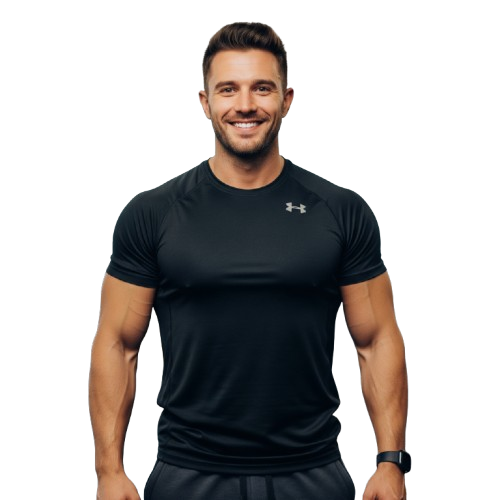
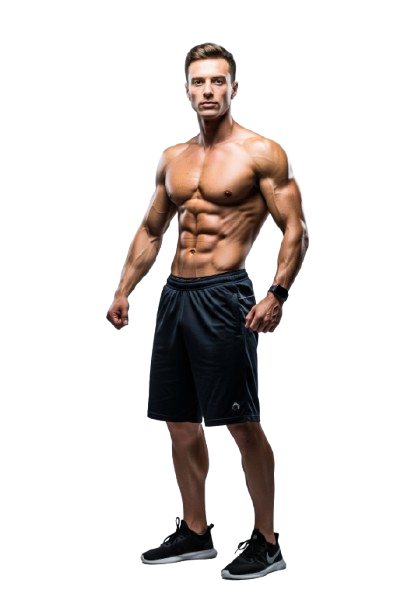
uptdates

diff --git a/index.html b/index.html
@@ -240,7 +240,7 @@
                         <div class="projeto-slide active animate-scale">
                             <div class="projeto-item animate-scale">
                                 <div class="projeto-img">
-                                    <img src="/placeholder.svg?height=300&width=500" alt="Flora Cerri" class="interactive">
+                                    <img src="./assets/print_floracerri.png" alt="Flora Cerri" class="interactive">
                                 </div>
                                 <div class="projeto-info">
                                     <span class="projeto-categoria">Site Institucional</span>
@@ -259,7 +259,7 @@
                         <div class="projeto-slide animate-scale">
                             <div class="projeto-item animate-scale">
                                 <div class="projeto-img">
-                                    <img src="/placeholder.svg?height=300&width=500" alt="Polo Sul" class="interactive">
+                                    <img src="./assets/print_polosul.png" alt="Polo Sul" class="interactive">
                                 </div>
                                 <div class="projeto-info">
                                     <span class="projeto-categoria">Landing Page</span>
@@ -278,7 +278,7 @@
                         <div class="projeto-slide animate-scale">
                             <div class="projeto-item animate-scale">
                                 <div class="projeto-img">
-                                    <img src="/placeholder.svg?height=300&width=500" alt="Garden Cerri" class="interactive">
+                                    <img src="./assets/print_gardencerri.png" alt="Garden Cerri" class="interactive">
                                 </div>
                                 <div class="projeto-info">
                                     <span class="projeto-categoria">Site Institucional</span>
@@ -320,7 +320,7 @@
                         <div class="projeto-slide active animate-scale">
                             <div class="projeto-item animate-scale">
                                 <div class="projeto-img">
-                                    <img src="/placeholder.svg?height=300&width=500" alt="Task Manager Pro" class="interactive">
+                                    <img src="./assets/print_advocacia.png" alt="Task Manager Pro" class="interactive">
                                 </div>
                                 <div class="projeto-info">
                                     <span class="projeto-categoria">Landing Page</span>
@@ -344,7 +344,7 @@
                         <div class="projeto-slide animate-scale">
                             <div class="projeto-item animate-scale">
                                 <div class="projeto-img">
-                                    <img src="/placeholder.svg?height=300&width=500" alt="Weather Dashboard" class="interactive">
+                                    <img src="./assets/print_fotografo.png" alt="Weather Dashboard" class="interactive">
                                 </div>
                                 <div class="projeto-info">
                                     <span class="projeto-categoria">Landing Page</span>
@@ -368,7 +368,7 @@
                         <div class="projeto-slide animate-scale">
                             <div class="projeto-item animate-scale">
                                 <div class="projeto-img">
-                                    <img src="/placeholder.svg?height=300&width=500" alt="Portfolio Generator" class="interactive">
+                                    <img src="./assets/print_mnsuplementos.png" alt="Portfolio Generator" class="interactive">
                                 </div>
                                 <div class="projeto-info">
                                     <span class="projeto-categoria">E-commerce</span>
@@ -392,7 +392,7 @@
                         <div class="projeto-slide animate-scale">
                             <div class="projeto-item animate-scale">
                                 <div class="projeto-img">
-                                    <img src="/placeholder.svg?height=300&width=500" alt="E-commerce Platform" class="interactive">
+                                    <img src="./assets/print_personal.png" alt="E-commerce Platform" class="interactive">
                                 </div>
                                 <div class="projeto-info">
                                     <span class="projeto-categoria">Landing Page</span>
@@ -416,7 +416,7 @@
                         <div class="projeto-slide animate-scale">
                             <div class="projeto-item animate-scale">
                                 <div class="projeto-img">
-                                    <img src="/placeholder.svg?height=300&width=500" alt="Social Media Dashboard" class="interactive">
+                                    <img src="./assets/print_tatuagem.png" alt="Social Media Dashboard" class="interactive">
                                 </div>
                                 <div class="projeto-info">
                                     <span class="projeto-categoria">Dashboard</span>
@@ -440,7 +440,7 @@
                         <div class="projeto-slide animate-scale">
                             <div class="projeto-item animate-scale">
                                 <div class="projeto-img">
-                                    <img src="/placeholder.svg?height=300&width=500" alt="AI Chat Assistant" class="interactive">
+                                    <img src="./assets/print_cantinho.png" alt="AI Chat Assistant" class="interactive">
                                 </div>
                                 <div class="projeto-info">
                                     <span class="projeto-categoria">Página Institucional</span>
@@ -464,7 +464,7 @@
                         <div class="projeto-slide animate-scale">
                             <div class="projeto-item animate-scale">
                                 <div class="projeto-img">
-                                    <img src="/placeholder.svg?height=300&width=500" alt="Code Learning Platform" class="interactive">
+                                    <img src="./assets/print_financas.png" alt="Code Learning Platform" class="interactive">
                                 </div>
                                 <div class="projeto-info">
                                     <span class="projeto-categoria">SPA – Single Page Application</span>

diff --git a/sites/mnsuplementos/index.html b/sites/mnsuplementos/index.html
@@ -20,10 +20,10 @@
                 
                 <nav class="nav" id="nav">
                     <ul class="nav-list">
-                        <li><a href="index.html" class="nav-link active">Home</a></li>
-                        <li><a href="categorias.html" class="nav-link">Categorias</a></li>
-                        <li><a href="produtos.html" class="nav-link">Produtos</a></li>
-                        <li><a href="contato.html" class="nav-link">Contato</a></li>
+                        <li><a href="./index.html" class="nav-link active">Home</a></li>
+                        <li><a href="./categorias.html" class="nav-link">Categorias</a></li>
+                        <li><a href="./produtos.html" class="nav-link">Produtos</a></li>
+                        <li><a href="./contato.html" class="nav-link">Contato</a></li>
                     </ul>
                 </nav>
 
@@ -59,7 +59,7 @@
                     </button>
                 </div>
                 <div class="hero-image">
-                    <img src="/placeholder.svg?height=400&width=500" alt="Suplementos MN" />
+                    <img src="./assets/LOGO.png" alt="Suplementos MN" />
                 </div>
             </div>
         </section>

diff --git a/sites/studio de tatuagem/index.html b/sites/studio de tatuagem/index.html
@@ -42,7 +42,7 @@
     <!-- Hero Section -->
     <section id="home" class="hero">
         <div class="hero-content">
-            <h1>Arte na pele, <span>memórias para sempre</span></h1>
+            <h1><span class="golden-text">Arte na pele,</span> <span>memórias para sempre</span></h1>
             <p>Transformamos suas ideias em arte permanente com técnica, criatividade e segurança</p>
             <a href="#contact" class="btn btn-primary">Agende sua sessão hoje</a>
         </div>

diff --git a/sites/studio de tatuagem/styles.css b/sites/studio de tatuagem/styles.css
@@ -1054,3 +1054,7 @@ footer {
   display: block;
   object-fit: contain;
 }
+
+.golden-text {
+  color: var(--secondary-color);
+}
